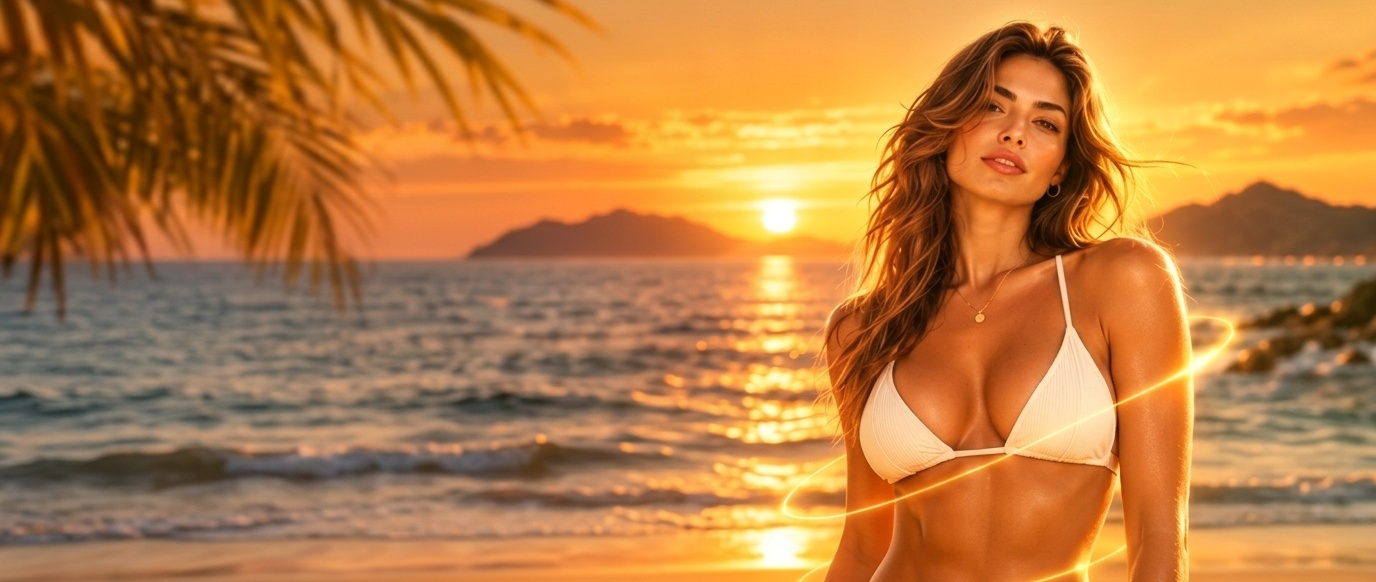
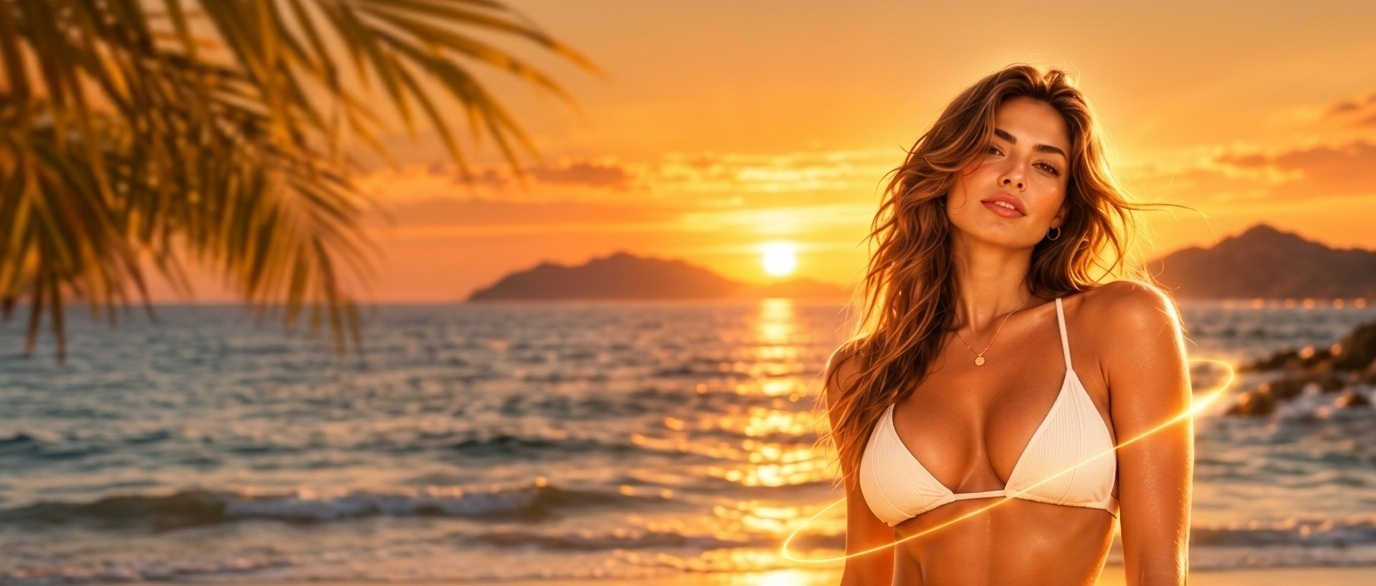
Fix hero model framing with generous headroom and restore complete cursive script loops

diff --git a/src/styles.css b/src/styles.css
@@ -182,7 +182,7 @@ button, a { -webkit-tap-highlight-color: transparent; }
 h2 { font-size: 38px; font-weight: 400; line-height: 1.08; }
 sup { font-size: .36em; vertical-align: super; }
 .hero { position: relative; min-height: 480px; overflow: hidden; color: var(--on-photo); background: var(--brand-orange); padding-bottom: 14px; }
-.hero-coast { position: absolute; width: 100%; height: 100%; object-fit: cover; object-position: 76% center; }
+.hero-coast { position: absolute; width: 100%; height: 100%; object-fit: cover; object-position: 76% top; }
 .hero-shade { position: absolute; inset: 0; background: linear-gradient(90deg, color-mix(in oklch, var(--photo-shade) 95%, black) 0%, color-mix(in oklch, var(--photo-shade) 75%, transparent) 40%, transparent 68%); pointer-events: none; }
 .site-header { position: relative; z-index: 2; display: flex; align-items: center; gap: 34px; height: 86px; }
 .brand { font-family: Georgia, serif; font-size: 55px; font-weight: 500; line-height: 1; position: relative; color: inherit; text-decoration: none; padding-bottom: 5px; border-bottom: 1px solid currentColor; flex-shrink: 0; }
@@ -242,7 +242,7 @@ sup { font-size: .36em; vertical-align: super; }
 .contact-dialog { max-width: 440px; padding: 35px; text-align: center; }.dialog-mark { display: flex; justify-content: center; color: var(--brand-orange); }.dialog-mark svg { width: 38px; height: 38px; }.contact-dialog h2 { font-size: 26px; line-height: 1.15; }.contact-dialog p { line-height: 1.7; }.photo-dialog { max-width: 820px; }.photo-dialog img { width: 100%; max-height: 65vh; object-fit: contain; }.photo-dialog h2 { font-size: 25px; }
 @media (min-width: 1500px) { .hero { min-height: 540px; }.hero-content { padding-top: 14px; }.hero-perks { margin-top: 24px; } }
 @media (max-width: 1150px) { .container { width: calc(100% - 64px); }.site-header { gap: 23px; }.brand { font-size: 43px; }.main-nav { gap: 15px; }.main-nav a { font-size: 11px; }.header-action { padding-inline: 15px; font-size: 11px; }.hero h1 { font-size: 49px; }.hero-copy { max-width: 475px; }.hero-copy > p { font-size: 16px; max-width: 425px; }.hero-handwritten-img { right: -15px; width: 130px; }.hero { min-height: 460px; }.areas-heading { flex-wrap: wrap; }.areas-heading h2 { font-size: 33px; }.gender-toggle button { padding-inline: 11px; }.benefits-heading { flex-wrap: wrap; }.benefits h2 { font-size: 34px; }.section-heading { flex-wrap: wrap; gap: 13px; }.section-heading h2 { font-size: 30px; }.section-heading .eyebrow { max-width: 230px; }.experience { gap: 8px; padding: 12px 10px; }.experience > img { width: 38px; height: 38px; }.professional h2 { font-size: 27px; }.professional-copy { padding-inline: 24px; }.professional-perks { padding-left: 16px; }.professional-perks > div { font-size: 11px; }.site-footer nav { gap: 18px; }.previous { left: -28px; }.next { right: -28px; } }
-@media (max-width: 800px) { .container { width: calc(100% - 40px); }.site-header { height: 80px; gap: 16px; }.brand { font-size: 40px; }.main-nav { display: none; }.menu-toggle { display: inline-flex; color: var(--on-photo); margin-left: auto; }.header-action { margin-left: auto; }.main-nav.is-open { display: flex; flex-direction: column; position: absolute; top: 80px; left: 0; right: 0; background: var(--brand-orange-dark); padding: 25px; gap: 22px; align-items: flex-start; border-radius: 5px; }.main-nav.is-open a { font-size: 15px; }.hero { min-height: 520px; }.hero-coast { object-position: 72% center; }.hero-shade { opacity: .91; }.hero-content { padding-top: 20px; }.hero-copy { max-width: 440px; }.hero h1 { font-size: 48px; }.hero-copy > p { max-width: 370px; }.hero-handwritten-img { display: none; }.hero-perks { max-width: 100%; width: auto; margin-top: 24px; margin-bottom: 8px; }.perk { padding-inline: 12px; gap: 8px; }.perk svg { width: 30px; height: 30px; }.perk span { font-size: 11px; }.explanation { grid-template-columns: 1fr; gap: 27px; }.how-section { border-right: none; border-bottom: 1px solid var(--border); padding-bottom: 27px; min-height: 360px; }.skin-image { right: 0; top: 44px; bottom: 0; width: 58%; height: calc(100% - 44px); object-fit: cover; object-position: right top; }.how-copy { max-width: 55%; }.body-copy { max-width: 300px; }.process-icons { max-width: 460px; }.areas-heading { flex-wrap: nowrap; }.areas-heading h2 { font-size: 38px; }.region-grid { gap: 14px; }.region-photo { max-width: 95px; }.region { font-size: 12px; }.benefits { padding-block: 27px; }.benefits-heading .heading-line { display: none; }.benefits-heading .eyebrow { width: 100%; }.benefit-grid { grid-template-columns: 1fr 1fr; gap: 25px; }.benefit-grid article:nth-child(2) { border-right: none; }.benefit-grid p { max-width: 100%; }.results-grid { grid-template-columns: 1fr 1fr; }.experience { padding: 18px 14px; min-height: 160px; }.experience > img { width: 52px; height: 52px; }.section-heading .eyebrow { max-width: none; width: 100%; }.gallery-item { flex-basis: calc((100% - 30px)/3); }.gallery-arrow { width: 27px; height: 27px; }.previous { left: -14px; }.next { right: -14px; }.professional { grid-template-columns: 42% 58%; }.professional-photo img { object-position: right center; }.professional-copy { padding-inline: 22px; }.professional-perks { grid-column: 1/-1; display: flex; justify-content: space-around; border: none; border-top: 1px solid color-mix(in oklch, var(--on-photo) 25%, transparent); padding: 10px 20px; gap: 12px; }.professional-perks > div { gap: 7px; }.professional-perks svg { flex-shrink: 0; }.professional-photo { height: 220px; }.contact-script { font-size: 34px; }.contact-perks { gap: 13px; }.contact-perks > div { padding-right: 12px; font-size: 10px; }.contact-perks svg { width: 27px; }.footer-main { flex-wrap: wrap; }.site-footer nav { order: 3; width: 100%; justify-content: space-between; }.footer-bottom { font-size: 8px; gap: 20px; } }
+@media (max-width: 800px) { .container { width: calc(100% - 40px); }.site-header { height: 80px; gap: 16px; }.brand { font-size: 40px; }.main-nav { display: none; }.menu-toggle { display: inline-flex; color: var(--on-photo); margin-left: auto; }.header-action { margin-left: auto; }.main-nav.is-open { display: flex; flex-direction: column; position: absolute; top: 80px; left: 0; right: 0; background: var(--brand-orange-dark); padding: 25px; gap: 22px; align-items: flex-start; border-radius: 5px; }.main-nav.is-open a { font-size: 15px; }.hero { min-height: 520px; }.hero-coast { object-position: 72% top; }.hero-shade { opacity: .91; }.hero-content { padding-top: 20px; }.hero-copy { max-width: 440px; }.hero h1 { font-size: 48px; }.hero-copy > p { max-width: 370px; }.hero-handwritten-img { display: none; }.hero-perks { max-width: 100%; width: auto; margin-top: 24px; margin-bottom: 8px; }.perk { padding-inline: 12px; gap: 8px; }.perk svg { width: 30px; height: 30px; }.perk span { font-size: 11px; }.explanation { grid-template-columns: 1fr; gap: 27px; }.how-section { border-right: none; border-bottom: 1px solid var(--border); padding-bottom: 27px; min-height: 360px; }.skin-image { right: 0; top: 44px; bottom: 0; width: 58%; height: calc(100% - 44px); object-fit: cover; object-position: right top; }.how-copy { max-width: 55%; }.body-copy { max-width: 300px; }.process-icons { max-width: 460px; }.areas-heading { flex-wrap: nowrap; }.areas-heading h2 { font-size: 38px; }.region-grid { gap: 14px; }.region-photo { max-width: 95px; }.region { font-size: 12px; }.benefits { padding-block: 27px; }.benefits-heading .heading-line { display: none; }.benefits-heading .eyebrow { width: 100%; }.benefit-grid { grid-template-columns: 1fr 1fr; gap: 25px; }.benefit-grid article:nth-child(2) { border-right: none; }.benefit-grid p { max-width: 100%; }.results-grid { grid-template-columns: 1fr 1fr; }.experience { padding: 18px 14px; min-height: 160px; }.experience > img { width: 52px; height: 52px; }.section-heading .eyebrow { max-width: none; width: 100%; }.gallery-item { flex-basis: calc((100% - 30px)/3); }.gallery-arrow { width: 27px; height: 27px; }.previous { left: -14px; }.next { right: -14px; }.professional { grid-template-columns: 42% 58%; }.professional-photo img { object-position: right center; }.professional-copy { padding-inline: 22px; }.professional-perks { grid-column: 1/-1; display: flex; justify-content: space-around; border: none; border-top: 1px solid color-mix(in oklch, var(--on-photo) 25%, transparent); padding: 10px 20px; gap: 12px; }.professional-perks > div { gap: 7px; }.professional-perks svg { flex-shrink: 0; }.professional-photo { height: 220px; }.contact-script { font-size: 34px; }.contact-perks { gap: 13px; }.contact-perks > div { padding-right: 12px; font-size: 10px; }.contact-perks svg { width: 27px; }.footer-main { flex-wrap: wrap; }.site-footer nav { order: 3; width: 100%; justify-content: space-between; }.footer-bottom { font-size: 8px; gap: 20px; } }
 @media (max-width: 480px) { .header-action { height: 36px; padding-inline: 12px; font-size: 10px; gap: 6px; }.header-action svg { width: 13px; }.site-header { gap: 9px; }.brand { font-size: 33px; }.brand-star { font-size: 30px; bottom: -13px; right: -9px; }.brand sup { font-size: 9px; right: -9px; }.menu-toggle { width: 29px; flex-shrink: 0; }.hero { min-height: 580px; }.hero-content { padding-top: 24px; }.hero-coast { object-position: 74% 25%; }.hero h1 { font-size: 44px; }.hero h1 .script { font-size: 74px; }.hero-copy > p { font-size: 15px; max-width: 290px; }.actions { gap: 10px; }.hero .actions { flex-direction: column; align-items: flex-start; }.action { font-size: 12px; height: 41px; padding-inline: 19px; }.hero-perks { display: grid; grid-template-columns: 1fr 1fr; gap: 16px 12px; margin-top: 24px; margin-bottom: 8px; max-width: 330px; }.perk { padding: 0; border: none; }.perk svg { width: 33px; height: 33px; }.perk span { font-size: 12px; }.explanation { padding-top: 27px; }.how-section { min-height: 355px; }.how-copy { max-width: 75%; }.how-copy h2 { font-size: 33px; }.how-copy .eyebrow { font-size: 9px; letter-spacing: 1.1px; }.body-copy { font-size: 14px; max-width: 215px; }.skin-image { right: 0; top: 40px; bottom: 0; width: 58%; height: calc(100% - 40px); object-fit: cover; object-position: right top; }.process-icons { gap: 6px; margin-top: 25px; }.process-icons > div > span { width: 60px; height: 60px; }.process-icons svg { width: 35px; height: 35px; }.process-icons p { font-size: 10px; }.areas-heading h2 { font-size: 30px; }.gender-toggle button { padding-inline: 9px; height: 28px; font-size: 10px; }.region-grid { grid-template-columns: repeat(3,1fr); gap: 17px 16px; }.region-photo { width: 82px; }.secondary-regions { grid-template-columns: repeat(5,minmax(0,1fr)); gap: 6px; }.secondary-regions .region-photo { width: 100%; }.secondary-regions .region { font-size: 10px; }.benefits h2 { font-size: 27px; white-space: normal; }.benefits-heading { gap: 9px; }.benefits .eyebrow { font-size: 8px; letter-spacing: 1.3px; white-space: normal; }.benefit-grid { gap: 24px 15px; }.benefit-grid article { padding-right: 13px; }.benefit-title { gap: 7px; align-items: flex-start; }.benefit-title svg { width: 30px; height: 30px; }.benefit-title h3 { font-size: 15px; }.benefit-grid p { font-size: 12px; }.section-heading h2 { font-size: 27px; white-space: normal; }.section-heading .heading-line { min-width: 15px; }.section-heading .eyebrow { font-size: 8px; letter-spacing: 1.2px; }.results-grid { gap: 11px; }.experience { flex-direction: column; padding: 13px; gap: 10px; }.experience > img { width: 44px; height: 44px; }.experience h3 { font-size: 12px; }.experience p { font-size: 11px; }.result-feature img { height: 100%; }.result-feature > span { font-size: 10px; left: 7px; right: 7px; padding: 6px; }.medical-note { font-size: 8px; line-height: 1.5; }.gallery-item { flex-basis: calc((100% - 14px)/2); height: 155px; }.professional { grid-template-columns: 1fr; }.professional-photo { height: 185px; }.professional-photo img { object-position: center 23%; }.professional-copy { padding: 25px 20px; }.professional h2 { font-size: 29px; }.professional-copy p { font-size: 13px; }.professional-perks { display: grid; grid-template-columns: 1fr 1fr; gap: 0 15px; padding: 12px 20px; }.professional-perks > div { font-size: 10px; }.contact-content { padding-block: 30px; }.contact-content h2 { font-size: 33px; }.contact-content > div > p { max-width: 290px; font-size: 13px; }.contact-content .actions { flex-direction: column; align-items: flex-start; }.contact-script { display: none; }.contact-perks { display: grid; grid-template-columns: 1fr 1fr; gap: 19px 8px; margin-top: 26px; }.contact-perks > div { border: none; font-size: 10px; }.site-footer nav { flex-wrap: wrap; justify-content: flex-start; gap: 15px 22px; font-size: 10px; }.footer-bottom { flex-direction: column; gap: 7px; }.contact-dialog { width: calc(100% - 32px); padding: 32px 23px; border-radius: 8px; }.photo-dialog { width: calc(100% - 24px); border-radius: 8px; } }
 /* Stable intermediate layouts and accessible touch targets. */
 .hero-copy, .how-copy, .areas-section, .experience > div, .professional-copy, .contact-content > div { min-width: 0; }
